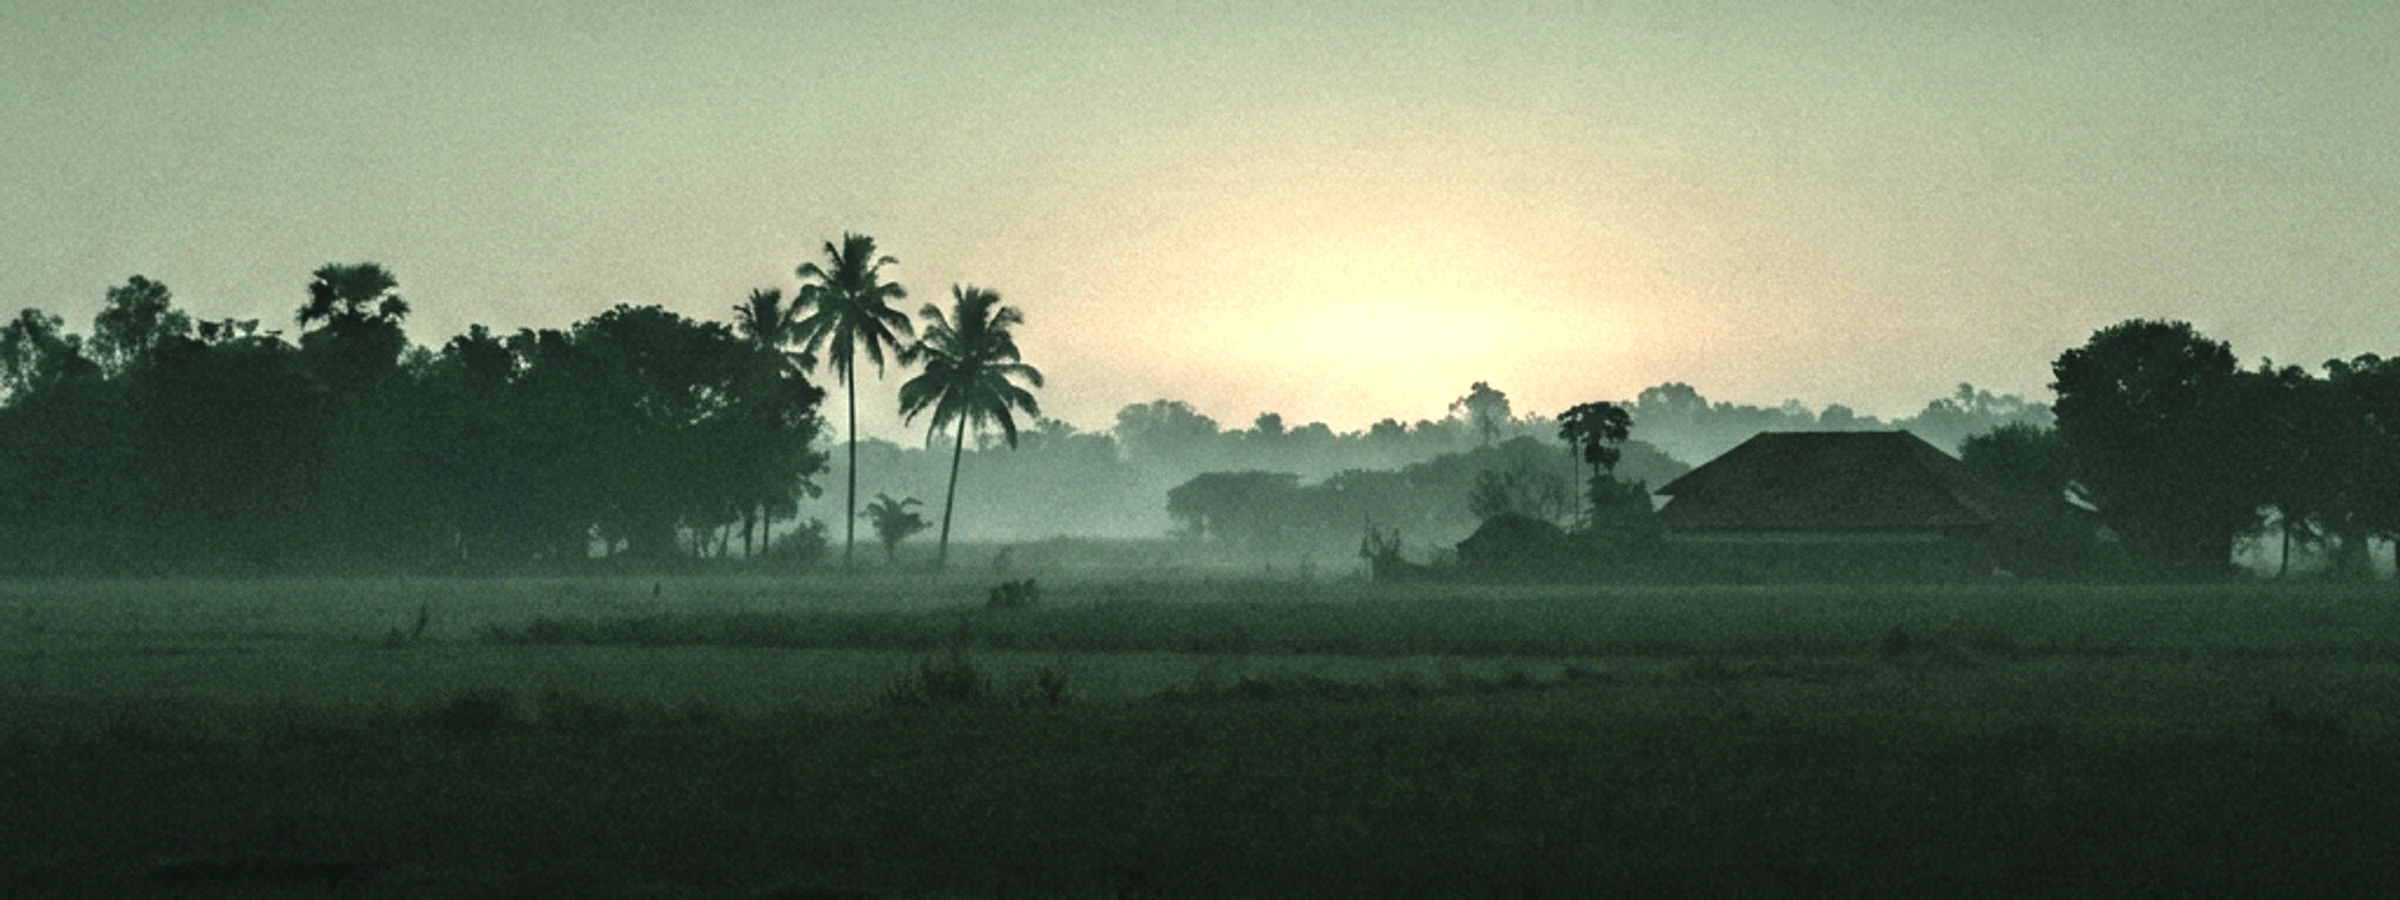
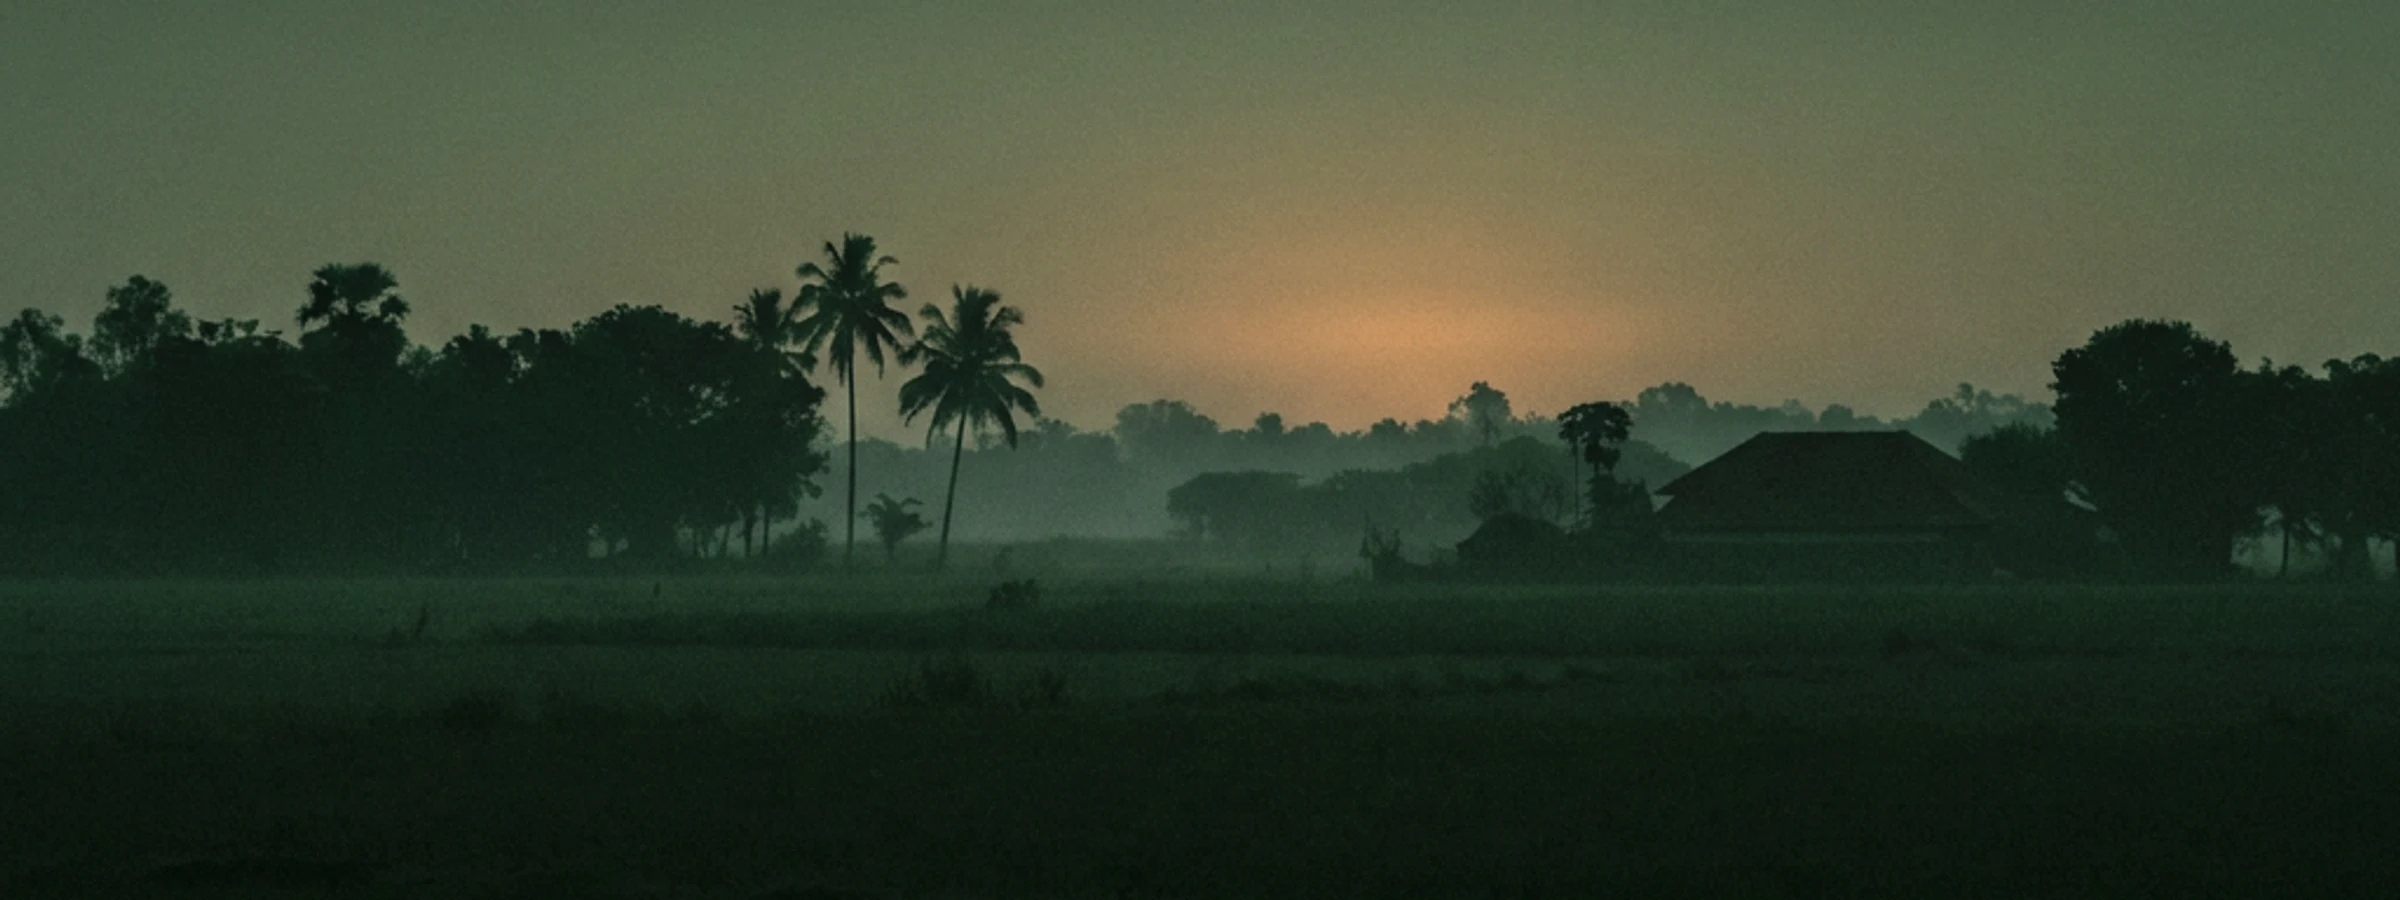
Darken the footer photograph so the text sits on top of it
The scene had been brightened to a mean luminance of 105 to make it
legible as a photograph. That is a fine number for a picture and a bad
one for a background: the cream link columns were reading against a dusk
sky nearly as light as they were, and the scrim only covered the top 46%,
so everything below the horizon had no wash over it at all.

The image is regraded to a mean of 56, and the scrim now runs the full
height (0.86 at the top, easing to 0.55 at the base) rather than fading
out at 46%.

Measured against the composite, with the mask fade over the image's top
edge ignored so the numbers are pessimistic:

  link columns   effective bg 36   cream 14.4:1   cream/70 7.5:1
  horizon glow   effective bg 40   cream 13.7:1   cream/70 6.1:1
  legal line     effective bg 19   cream 17.3:1   cream/70 8.6:1

The 12px copyright line was the one at risk, since small text needs 4.5:1
rather than 3:1; it now sits at 8.6:1 against the brightest pixel behind
it.

diff --git a/src/components/ng/footer.tsx b/src/components/ng/footer.tsx
@@ -99,15 +99,17 @@ export function Footer() {
       </div>
 
       {/* Readability scrim.
-          Sits ONLY behind the link columns at the top. It was widened to
-          inset-0 to strengthen contrast, which put a wash over the entire
-          footer — photograph included — and erased the image completely. */}
+          Covers the full height. Confining it to the top 46% left the pale
+          dusk sky sitting directly behind the link columns, brighter than the
+          cream text on it. The photograph is dark enough now that a wash this
+          strong still leaves the horizon readable — the scene should be felt,
+          not competed with. */}
       <div
         aria-hidden
-        className="absolute inset-x-0 top-0 z-0 h-[46%] pointer-events-none"
+        className="absolute inset-0 z-0 pointer-events-none"
         style={{
           background:
-            "linear-gradient(180deg, rgba(10,31,18,0.62) 0%, rgba(10,31,18,0.45) 55%, transparent 100%)",
+            "linear-gradient(180deg, rgba(8,24,14,0.86) 0%, rgba(8,24,14,0.78) 40%, rgba(8,24,14,0.62) 72%, rgba(8,24,14,0.55) 100%)",
         }}
       />
 
